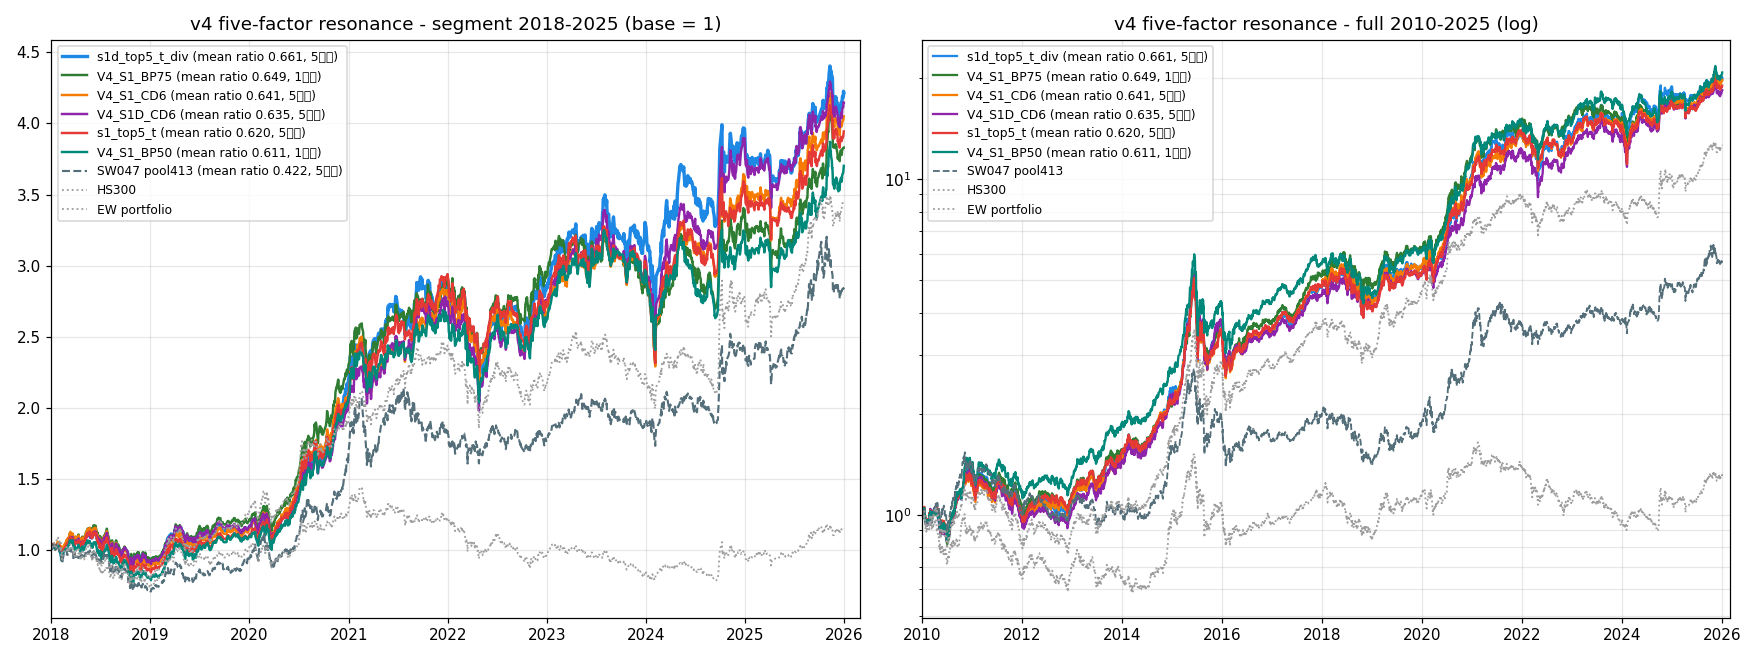
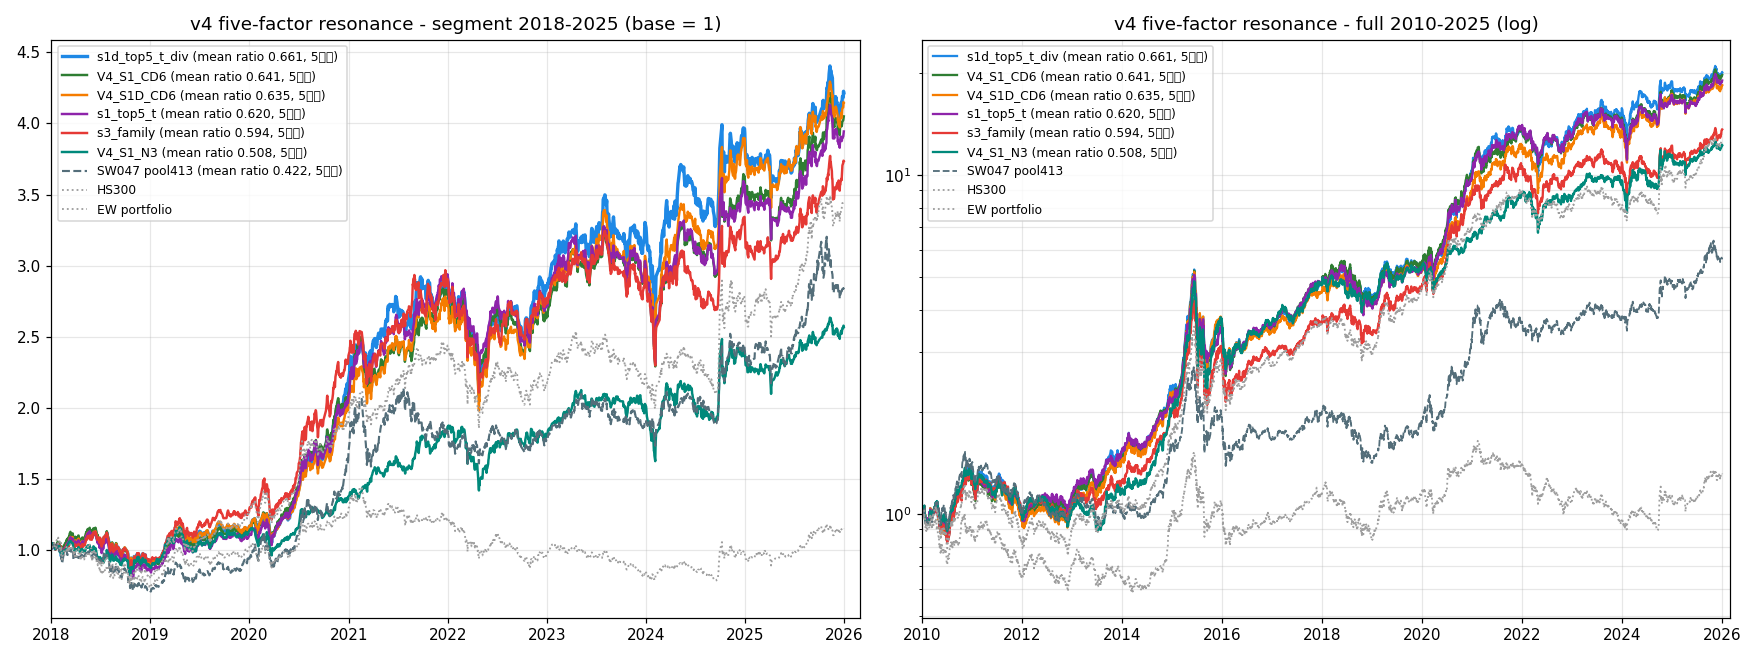
v4 chart: restrict to multi-phase configs only (methodological consistency)

diff --git a/examples/v4_five_factor.py b/examples/v4_five_factor.py
@@ -231,7 +231,7 @@ def curves():
     for e in entries:
         by.setdefault(group_key(e), []).append(e)
     order = sorted(by.keys(), key=lambda k: -np.mean([x["seg"]["ratio"] for x in by[k]]))
-    order = order[:6]  # 图只保留 top-6 配置, 避免拥挤
+    order = [k for k in order if len(by[k]) >= 2][:6]  # 只画多相位配置 (≥2), top-6
     if not order:
         log("no entries")
         return
